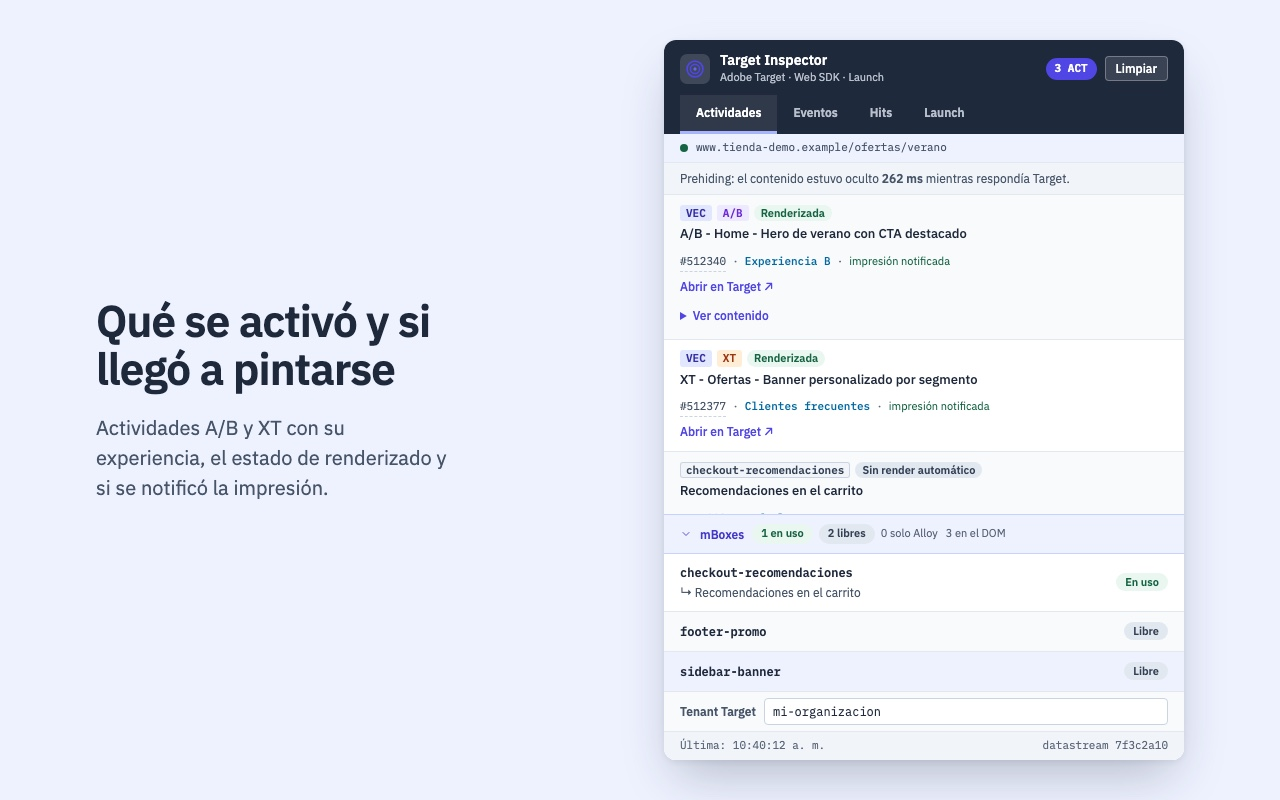
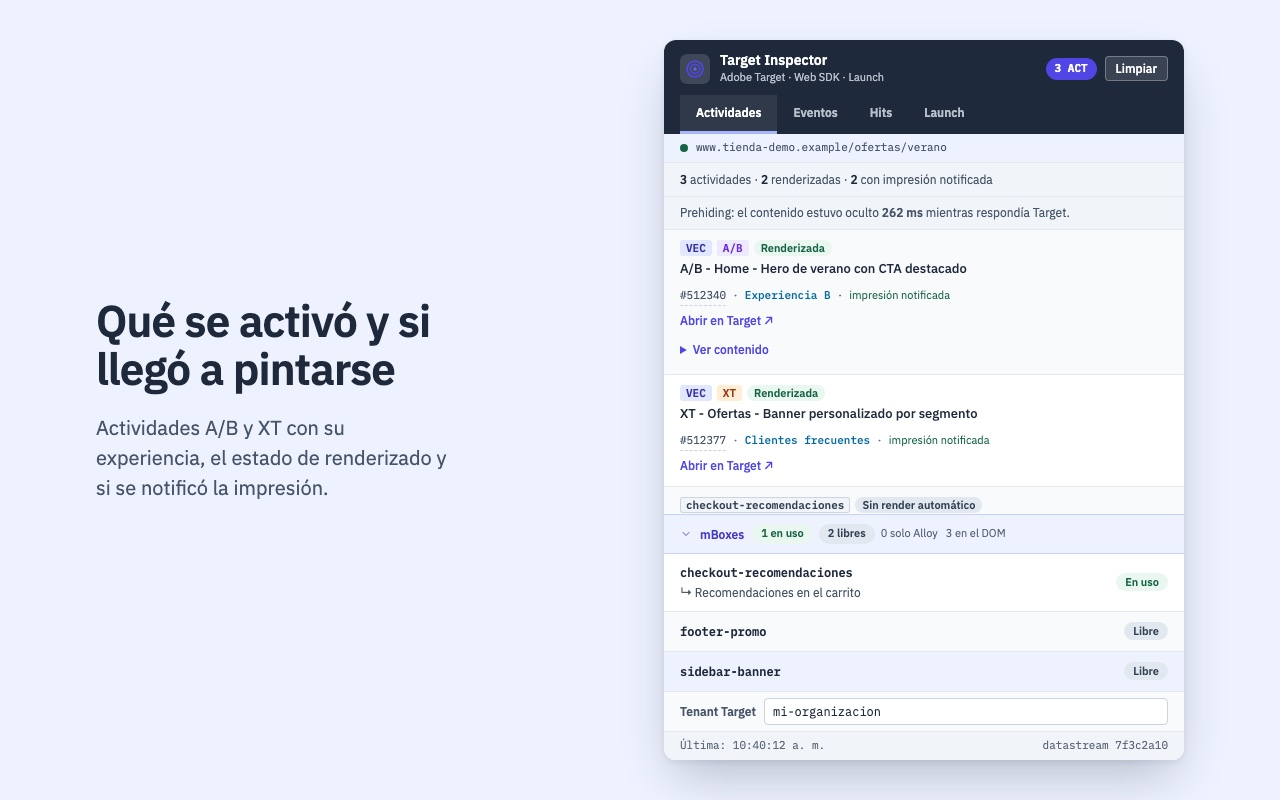
Veredicto en Actividades, filtros en Hits y grupos en Launch
- Actividades: línea de veredicto ("N actividades · N renderizadas · N con
  impresión notificada") y "+N scopes" cuando una actividad responde en
  varios scopes (orden estable, __view__ primero).
- Hits: chips "solo esto" (Todas / Decisiones / Impresión / Con error / Sin
  respuesta); "Ver Hits" desde el aviso de impresión llega ya filtrado.
- Un solo término: "impresión" (display) en Actividades y en Hits.
- Launch: encabezado fijo por grupo (Completadas / Condición no cumplida).
- Capturas de la Store regeneradas.

Changed region(s): [[0.5312, 0.2188, 0.8438, 0.6562]]

diff --git a/popup.js b/popup.js
@@ -67,7 +67,7 @@ function emptyStateHtml(icon, html, withInject = false, warn = false) {
 // en <body> con cada hit o regla nueva. Antes de repintar se anota qué
 // estaba enfocado (el data-key más cercano + el control adentro) y después
 // se vuelve a enfocar su equivalente.
-const FOCUS_ATTRS = ["id", "data-hit-toggle", "data-copy", "data-copy-event", "data-copy-code", "data-copy-hit", "data-goto", "data-idx", "data-event", "data-status", "href"];
+const FOCUS_ATTRS = ["id", "data-hit-toggle", "data-hit-filter", "data-copy", "data-copy-event", "data-copy-code", "data-copy-hit", "data-goto", "data-idx", "data-event", "data-status", "href"];
 
 function focusDescriptor(root) {
   const el = document.activeElement;
@@ -95,6 +95,13 @@ function restoreFocus(root, d) {
 function captureIsLive(data) {
   const instances = Array.isArray(data.instanceInfo) ? data.instanceInfo : data.instanceInfo ? [data.instanceInfo] : [];
   return instances.length > 0 || !!data.launchInfo || (data.requests || []).length > 0;
+}
+
+/** Franja de veredicto de Actividades (#act-summary); "" la oculta. */
+function setActSummary(html) {
+  const el = document.getElementById("act-summary");
+  el.hidden = !html;
+  el.innerHTML = html;
 }
 
 /** Estado del punto de la barra de URL: "ok" | "warn" | "error" | "idle". El texto de #page-url siempre nombra el mismo estado. */
@@ -160,7 +167,9 @@ function setBlocked(icon, html, urlText) {
   showBlockedIn("event-list");
   showBlockedIn("launch-list");
   showBlockedIn("hits-list");
+  setActSummary("");
   document.getElementById("hits-summary").hidden = true;
+  document.getElementById("hits-filters").innerHTML = "";
   document.getElementById("event-filters").innerHTML = "";
   document.getElementById("event-search-bar").hidden = true;
   document.getElementById("launch-info").hidden = true;
@@ -227,6 +236,7 @@ function showStale(tabUrl) {
     }
   })();
   document.getElementById("mbox-dock").innerHTML = "";
+  setActSummary("");
   document.getElementById("list").innerHTML = emptyStateHtml(
     "refresh",
     `Página distinta a la captura.<br>Recarga <strong>${escapeHtml(host)}</strong> para capturar.`,
@@ -587,6 +597,7 @@ function render(currentTabUrl) {
       // Con un motivo concreto no se ofrece "Capturar ahora": reinyectar no
       // arregla una cookie que falta ni una regla que no corrió.
       const reason = whyNoActivities(data);
+      setActSummary("");
       list.innerHTML = emptyStateHtml(
         reason?.warn ? "alert" : "signal",
         reason?.html ||
@@ -620,6 +631,20 @@ function render(currentTabUrl) {
     );
 
     // Muestra una sola fila por actividad (pueden llegar duplicadas en múltiples requests)
+    // Una actividad puede responder en varios scopes (bankofamerica.com: una
+    // sola en 8 mboxes). Se junta la lista entera por actividad, ordenada
+    // (__view__ primero): antes la fila mostraba el scope de la primera
+    // decisión que llegara, y cambiaba de una carga a otra.
+    const scopesByActivity = new Map();
+    allDecisions.forEach((d) => {
+      const id = d.scopeDetails?.activity?.id;
+      if (!id || !d.scope) return;
+      if (!scopesByActivity.has(id)) scopesByActivity.set(id, new Set());
+      scopesByActivity.get(id).add(d.scope);
+    });
+    const sortedScopes = (id) =>
+      [...(scopesByActivity.get(id) || [])].sort((a, b) => (a === "__view__" ? -1 : b === "__view__" ? 1 : String(a).localeCompare(String(b))));
+
     const seen = new Set();
     const unique = allDecisions.filter((d) => {
       const id = d.scopeDetails?.activity?.id;
@@ -635,6 +660,7 @@ function render(currentTabUrl) {
     // quedaba vacía con solo el aviso del tenant, sin decir nada.
     if (unique.length === 0) {
       const reason = whyNoActivities(data);
+      setActSummary("");
       list.innerHTML = emptyStateHtml(
         reason?.warn ? "alert" : "target",
         reason?.html ||
@@ -664,7 +690,9 @@ function render(currentTabUrl) {
     // controla esos strings. El recorte de nombres largos lo hace el CSS.
     const rowsHtml = unique
       .map((d, idx) => {
-        const scope = formatScope(d.scope);
+        const scopes = sortedScopes(d.scopeDetails?.activity?.id);
+        const scope = formatScope(scopes[0] ?? d.scope);
+        const moreScopes = scopes.slice(1);
         const { name, id, exp, actType } = getActivityInfo(d);
         const displayName = name || `Actividad ${id}`;
         const targetUrl = getTargetUrl(actType, id);
@@ -690,6 +718,7 @@ function render(currentTabUrl) {
         <div class="activity" data-key="act|${escapeHtml(id)}">
           <div class="activity__tags">
             <span class="scope-tag scope-tag--${scope.type}" title="${escapeHtml(scope.type === "vec" ? "Visual Experience Composer (__view__)" : scope.label)}">${escapeHtml(scope.label)}</span>
+            ${moreScopes.length ? `<span class="scope-tag scope-tag--more" title="${escapeHtml(moreScopes.map((x) => formatScope(x).label).join("\n"))}">+${moreScopes.length} ${moreScopes.length === 1 ? "scope" : "scopes"}</span>` : ""}
             ${actType ? `<span class="activity__type activity__type--${actType.toLowerCase()}" title="Tipo inferido del nombre de la actividad: el payload no lo informa">${actType === "AB" ? "A/B" : "XT"}</span>` : ""}
             ${rendered ? renderBadgeHtml(rendered) : ""}
           </div>
@@ -715,8 +744,23 @@ function render(currentTabUrl) {
       : `<div class="list__note"><span>Configura el tenant para abrir actividades en Target.</span><button class="list__note-action" id="focus-tenant">Configurar</button></div>`;
 
     const displayNote = renderedWithoutDisplay
-      ? `<div class="list__note list__note--warn"><span>${renderedWithoutDisplay} ${renderedWithoutDisplay === 1 ? "actividad renderizada no notificó" : "actividades renderizadas no notificaron"} el display en esta carga: Target cuenta la impresión recién cuando se notifica.</span><button class="list__note-action" data-goto="hits">Ver Hits</button></div>`
+      ? `<div class="list__note list__note--warn"><span>${renderedWithoutDisplay} ${renderedWithoutDisplay === 1 ? "actividad renderizada no notificó" : "actividades renderizadas no notificaron"} la impresión (display) en esta carga: Target la cuenta recién cuando se notifica.</span><button class="list__note-action" data-goto="hits" data-filter="display">Ver Hits</button></div>`
       : "";
+
+    // Veredicto de la página en una línea: lo que un QA firma. Cada tramo
+    // aparece solo si hay datos para afirmarlo (sin eventos de render o sin
+    // hits no se inventa un "0").
+    const renderedOk = unique.filter((d) => renderState.byActivity.get(String(d.scopeDetails?.activity?.id))?.status === "ok").length;
+    const notifiedCount = unique.filter((d) => displayed.has(String(d.scopeDetails?.activity?.id))).length;
+    setActSummary(
+      [
+        `<b>${unique.length}</b> ${unique.length === 1 ? "actividad" : "actividades"}`,
+        renderState.hasRendering ? `<b>${renderedOk}</b> ${renderedOk === 1 ? "renderizada" : "renderizadas"}` : null,
+        knowsDisplay ? `<b>${notifiedCount}</b> con impresión notificada` : null,
+      ]
+        .filter(Boolean)
+        .join(" · "),
+    );
 
     const scrollTop = list.scrollTop;
     const focused = focusDescriptor(list);
@@ -1743,8 +1787,15 @@ function paintLaunchRules(rules) {
   lastRenderedRules = new Map(sorted.map((r) => [r.key, r]));
   const scrollTop = list.scrollTop;
   const focused = focusDescriptor(list);
+  // Encabezado al empezar cada grupo: el orden "completadas primero" no se
+  // notaba sin algo que marcara dónde terminan unas y empiezan las otras.
+  const groupCount = { completed: sorted.filter((r) => r.status === "completed").length, failed: sorted.filter((r) => r.status === "failed").length };
+  const groupHeader = (r, idx) =>
+    idx === 0 || sorted[idx - 1].status !== r.status
+      ? `<div class="list__group">${RULE_STATUS[r.status].chip} <span class="list__group-count">${groupCount[r.status]}</span></div>`
+      : "";
   list.innerHTML = sorted
-    .map((r) => {
+    .map((r, idx) => {
       const s = RULE_STATUS[r.status];
       const name = r.ruleName || r.ruleId || "Regla sin nombre";
       // Fallidas: la condición que no se cumplió + lo que habrían ejecutado.
@@ -1766,7 +1817,7 @@ function paintLaunchRules(rules) {
         ? `${formatSinceLoad(r.firstT)} → ${formatSinceLoad(r.lastT)}`
         : formatSinceLoad(r.firstT);
       // Nombre de regla, ID y condiciones salen de la librería de Launch de la página: se escapan.
-      return `
+      return `${groupHeader(r, idx)}
       <div class="rule-row" data-key="${escapeHtml(r.key)}|row">
         <div class="rule-row__header">
           <span class="status-badge ${s.badge}" title="${escapeHtml(s.title)}">${s.label}</span>
@@ -1846,6 +1897,17 @@ const HIT_TITLES = {
   "identity/acquire": "Pedido de identidad (ECID)",
   "privacy/set-consent": "Consentimiento",
 };
+// Filtro de Hits (en memoria, como los de Eventos y Launch).
+const hitIsError = (h) => !!h.error || (Number.isFinite(h.status) && (h.status < 200 || h.status >= 300));
+const HIT_FILTERS = {
+  all: { label: "Todas", test: () => true },
+  decisions: { label: "Decisiones", test: (h) => (h.scopes || []).length > 0 || (h.eventTypes || []).includes("decisioning.propositionFetch") || h.decisions > 0 },
+  display: { label: "Impresión", test: (h) => (h.displayedActivities || []).length > 0 },
+  error: { label: "Con error", test: hitIsError },
+  pending: { label: "Sin respuesta", test: (h) => !h.responded && !h.error },
+};
+let hitFilter = "all";
+
 // Desplegables Request/Response abiertos, por "<requestId>|req" / "|res".
 const openHitBlocks = new Set();
 let lastRenderedHits = new Map();
@@ -1916,6 +1978,7 @@ function renderHits() {
 
     if (hits.length === 0) {
       summary.hidden = true;
+      document.getElementById("hits-filters").innerHTML = "";
       const live = captureIsLive(data);
       list.innerHTML = emptyStateHtml(
         "signal",
@@ -1951,16 +2014,31 @@ function renderHits() {
       `<b>${hits.length}</b> ${hits.length === 1 ? "llamada" : "llamadas"} al Edge`,
       `<b>${failed}</b> con error`,
       pending ? `<b>${pending}</b> sin respuesta` : null,
-      `<span title="Llamadas decisioning.propositionDisplay: así Target cuenta la impresión">${displays} ${displays === 1 ? "notificación" : "notificaciones"} de display</span>`,
+      `<span title="Llamadas que notifican el display (decisioning.propositionDisplay): así Target cuenta la impresión">${displays} ${displays === 1 ? "notificación" : "notificaciones"} de impresión</span>`,
     ]
       .filter(Boolean)
       .join(" · ");
+
+    // Chips "solo esto" (uno activo a la vez, no de exclusión como en
+    // Eventos): con 27 hits lo que se busca es aislar los de decisiones o los
+    // de impresión. Un tipo sin hits no muestra chip; si el activo se queda
+    // sin hits, se vuelve a "Todas".
+    const counts = Object.fromEntries(Object.keys(HIT_FILTERS).map((k) => [k, hits.filter(HIT_FILTERS[k].test).length]));
+    if (!counts[hitFilter]) hitFilter = "all";
+    const filters = document.getElementById("hits-filters");
+    const filterFocus = focusDescriptor(filters);
+    filters.innerHTML = Object.keys(HIT_FILTERS)
+      .filter((k) => k === "all" || counts[k] > 0)
+      .map((k) => `<button class="event-filter event-filter--solo${hitFilter === k ? " event-filter--active" : ""}" data-hit-filter="${k}" aria-pressed="${hitFilter === k}">${HIT_FILTERS[k].label} · ${counts[k]}</button>`)
+      .join("");
+    restoreFocus(filters, filterFocus);
+    const shown = hits.filter(HIT_FILTERS[hitFilter].test);
 
     const multiInstance = new Set(hits.map((h) => h.instance)).size > 1;
     const scrollTop = list.scrollTop;
     const focused = focusDescriptor(list);
     // Todo lo que sale del hit (endpoint, eventTypes, scopes, IDs, instancia) viene de la página: se escapa.
-    list.innerHTML = hits
+    list.innerHTML = shown
       .map((h) => {
         const title = (h.eventTypes || []).length
           ? h.eventTypes.join(", ")
@@ -1980,7 +2058,7 @@ function renderHits() {
           if (resp.length) meta.push(`respuesta: ${resp.map(escapeHtml).join(" · ")}`);
         }
         const displayed = (h.displayedActivities || []).length
-          ? `<div class="hit-row__meta hit-row__display">Notifica el display de:</div>
+          ? `<div class="hit-row__meta hit-row__display">Notifica la impresión (display) de:</div>
              <ul class="hit-row__displayed">${h.displayedActivities
                .map((id) => {
                  const name = activityNames.get(String(id));
@@ -2022,6 +2100,13 @@ document.getElementById("hits-list").addEventListener("click", (e) => {
   copyText(hitJson(value), btn.dataset.copyHit.endsWith("|req") ? "Request copiado." : "Response copiada.");
 });
 
+document.getElementById("hits-filters").addEventListener("click", (e) => {
+  const chip = e.target.closest("[data-hit-filter]");
+  if (!chip) return;
+  hitFilter = chip.dataset.hitFilter;
+  renderHits();
+});
+
 // Abrir/cerrar Request o Response: el panel se llena la primera vez que se abre.
 document.getElementById("hits-list").addEventListener("click", (e) => {
   const btn = e.target.closest("[data-hit-toggle]");
@@ -2050,6 +2135,8 @@ document.addEventListener("click", (e) => {
   const tab = tabItems.find((t) => t.dataset.tab === btn.dataset.goto);
   if (!tab) return;
   // data-search: llega a Launch con la regla nombrada ya filtrada.
+  // data-filter: "Ver Hits" desde el aviso de impresión llega ya filtrado.
+  if (btn.dataset.goto === "hits" && HIT_FILTERS[btn.dataset.filter]) hitFilter = btn.dataset.filter;
   if (btn.dataset.goto === "launch" && btn.dataset.search) {
     launchSearch = btn.dataset.search;
     document.getElementById("launch-search").value = launchSearch;

diff --git a/popup.html b/popup.html
@@ -357,6 +357,28 @@
         font-size: var(--fs-sm);
         color: var(--ink-2);
       }
+      /* Encabezado de grupo dentro de una lista (Launch: completadas / no
+         cumplidas). Queda pegado arriba mientras se recorre su grupo. */
+      .list__group {
+        position: sticky;
+        top: 0;
+        z-index: 1;
+        display: flex;
+        align-items: baseline;
+        gap: 6px;
+        padding: 6px 16px;
+        background: var(--bg-sunken);
+        border-bottom: 1px solid var(--line);
+        font-size: var(--fs-meta);
+        font-weight: 600;
+        color: var(--ink-2);
+      }
+      .list__group-count {
+        font-family: var(--font-mono);
+        font-weight: 500;
+        color: var(--ink-3);
+        font-variant-numeric: tabular-nums;
+      }
       .list__note-action {
         background: none;
         border: none;
@@ -412,6 +434,13 @@
         max-width: 100%;
         overflow: hidden;
         text-overflow: ellipsis;
+      }
+      /* "+7 scopes": la actividad respondió en más de un scope (lista en el title). */
+      .scope-tag--more {
+        flex-shrink: 0;
+        background: transparent;
+        color: var(--ink-2);
+        box-shadow: inset 0 0 0 1px var(--line-strong);
       }
       .scope-tag--vec {
         background: var(--scope-vec-bg);
@@ -1079,6 +1108,12 @@
       .event-filter:hover {
         border-color: var(--accent);
       }
+      /* Chips "solo esto" (Hits): los inactivos no van tachados — no están
+         excluidos, simplemente no son el que se está mirando. */
+      .event-filter--solo {
+        text-decoration: none;
+        color: var(--ink-2);
+      }
       .event-filter--active {
         background: var(--bg-accent);
         color: var(--accent-strong);
@@ -1570,6 +1605,7 @@
       role="tabpanel"
       aria-labelledby="tab-actividades"
     >
+      <p class="mbox-summary" id="act-summary" hidden></p>
       <div class="list" id="list"></div>
       <div class="mbox-dock" id="mbox-dock"></div>
     </section>
@@ -1597,6 +1633,7 @@
 
     <section class="panel" id="panel-hits" role="tabpanel" aria-labelledby="tab-hits">
       <p class="mbox-summary" id="hits-summary" hidden></p>
+      <div class="event-filters" id="hits-filters" role="group" aria-label="Mostrar solo un tipo de llamada"></div>
       <div class="list" id="hits-list"></div>
     </section>
 

diff --git a/CLAUDE.md b/CLAUDE.md
@@ -158,6 +158,10 @@ The summary in the section header uses the same three categories, so "en uso" + 
 
 **"mbox" vs. "decision scope" — same concept, two names.** Sites on Web SDK (Alloy) are where Adobe renamed the legacy "mbox" to "decision scope" — they're the same thing under different SDKs/eras. Many front-ends still use the `mbox` convention in the DOM (`[data-mbox]`), while Alloy requests/responds in terms of scopes. This extension straddles both worlds on purpose: `domMboxes` is what we scan from the DOM (the `mbox` side), and `decisionScopes`/`scope` in the Alloy payload is what Target actually requested/answered (the "decision scope" side). The **Alloy** category above exists specifically for scopes Target answered that have no matching `[data-mbox]` element, and `__view__` is the special scope the VEC (Visual Experience Composer) uses. Don't "unify" this terminology later — collapsing it loses the distinction the classification logic depends on.
 
+### Verdict strip and scopes (Actividades)
+
+`#act-summary` (set through `setActSummary`, emptied by every empty/stale/blocked state) is the page's verdict in one line: "N actividades · N renderizadas · N con impresión notificada". Each segment only appears when there is data to back it (no render events → no "renderizadas"; no hits → no "impresión"). An activity can answer on several scopes (bankofamerica.com: one activity on 8 mboxes): `render()` collects them per activity, sorted with `__view__` first, and the row shows the first plus a `+N scopes` tag whose `title` lists the rest — it used to show whichever decision arrived first, which changed between loads.
+
 ### Impression notified (Actividades)
 
 Target counts an impression only when Alloy notifies the display (`decisioning.propositionDisplay`, or propositions inside another event's `_experience.decisioning` — `summarizeHitBody` in content.js collects both into `displayedActivities`). When hits were captured in this load, each rendered activity says "impresión notificada" or "impresión sin notificar" (the un-notified state is marked on the row, not just counted) and the un-notified ones add up in a warn note ("N actividades renderizadas no notificaron el display…", with a "Ver Hits" button). Without hits nothing is claimed — "not notified" would be false if capture started late. bbva.pe is the real case: 3 rendered activities, `sendDisplayEvent: false`, zero notifications in the load.
@@ -166,7 +170,9 @@ Target counts an impression only when Alloy notifies the display (`decisioning.p
 
 Live re-renders replace each list's `innerHTML`, which used to drop keyboard focus to `<body>` on every incoming hit/rule: every paint that rewrites `innerHTML` — the four lists, the two filter-chip bars and the mBoxes dock — wraps itself in `focusDescriptor(root)` / `restoreFocus(root, focused)` (nearest `[data-key]` — rows carry one too: `act|<id>`, `<rule.key>|row`, `<requestId>|row` — plus the control inside, matched by `id`/`data-*`/`href` or its first class). A new paint needs the same two lines. Repeated disclosures carry an `aria-label` with their owner ("Request de decisioning.propositionFetch", "Ver código de la acción customCode de <regla>") and all `summary`/small buttons are ≥24px tall.
 
-Launch lists completed rules first, then failed ones (each group in firing order); a failed rule's actions sit behind one collapsed `<details class="rule-row__actions">` ("N acciones que no se ejecutaron") whose open state shares `openRuleCode`.
+Hits has "show only" chips (`HIT_FILTERS`: Todas / Decisiones / Impresión / Con error / Sin respuesta, one active at a time, a kind with zero hits shows no chip — unlike Eventos/Launch chips, which exclude); `data-goto="hits" data-filter="display"` (the "Ver Hits" of the impression note) arrives pre-filtered. "Impresión" is the one user-facing word for display notification in both tabs ("Notifica la impresión (display) de:").
+
+Launch lists completed rules first, then failed ones (each group in firing order, under a sticky `.list__group` header with its count); a failed rule's actions sit behind one collapsed `<details class="rule-row__actions">` ("N acciones que no se ejecutaron") whose open state shares `openRuleCode`.
 
 Any `[data-goto="<tab>"]` button activates that tab (diagnoses say "Abre Hits", the display note has "Ver Hits"). Live re-renders go through `scheduleLiveRender`: at most one paint per tab every `LIVE_RENDER_MS` (400ms), first paint of a burst immediate, last one always painted.
 
@@ -176,7 +182,7 @@ The code/settings of each rule's conditions and actions is stored under its own 
 
 ## Gotchas
 
-- `popup.js` hard-codes DOM IDs/classes it expects from `popup.html`: `#list`, `#count`, `#page-url`, `#ts`, `#clear`, `#tenant-input`, `#edge-info`, `#toast`/`#toast-text`/`#toast-action`, `#launch-info`, `#launch-list`, `#launch-filters`, `#launch-search`/`#launch-search-bar`, `#hits-list`, `#hits-summary`, `#mbox-dock`, `.tabs__item[data-tab]` (real `<button role="tab">`s — keyboard nav lives in `activateTab`), `.panel`, `.url-bar__indicator` (state via `--ok/--warn/--error` modifiers, set by `setIndicator`, never inline styles). Renaming in the HTML silently breaks rendering (e.g. `#tenant-input` is read by `setupTenantInput`).
+- `popup.js` hard-codes DOM IDs/classes it expects from `popup.html`: `#list`, `#count`, `#page-url`, `#ts`, `#clear`, `#tenant-input`, `#edge-info`, `#toast`/`#toast-text`/`#toast-action`, `#launch-info`, `#launch-list`, `#launch-filters`, `#launch-search`/`#launch-search-bar`, `#hits-list`, `#hits-summary`, `#hits-filters`, `#act-summary`, `#mbox-dock`, `.tabs__item[data-tab]` (real `<button role="tab">`s — keyboard nav lives in `activateTab`), `.panel`, `.url-bar__indicator` (state via `--ok/--warn/--error` modifiers, set by `setIndicator`, never inline styles). Renaming in the HTML silently breaks rendering (e.g. `#tenant-input` is read by `setupTenantInput`).
 - Every captured value interpolated into `innerHTML` goes through `escapeHtml` (which also escapes quotes, since values land in `title`/`href`/`data-*` attributes). The extension runs on arbitrary sites and the page controls activity names, scopes, mbox names and event payloads — MV3's CSP blocks inline scripts but not injected links/iframes/forms. Don't add a template interpolation of payload data without it.
 - Colors, type sizes and fonts are tokens on `:root` in `popup.html` (semantic names: `--ink-3`, `--type-ab`, `--danger`…). Every text/background pair was measured at ≥4.5:1, and the type floor is 11px — add new UI through the tokens, not raw hex or smaller sizes.
 - Fonts are bundled (`assets/fonts/`, IBM Plex latin subset, OFL license alongside) and declared with `@font-face` in `popup.html` — the window makes no external requests. Don't reintroduce the Google Fonts `<link>`.

diff --git a/README.md b/README.md
@@ -10,9 +10,9 @@ Cuando Target responde a una llamada de personalización, o la página hace `pus
 
 | Pestaña | Qué muestra |
 | --- | --- |
-| **Actividades** | Lista de actividades A/B y XT que Target activó, con nombre, ID, experiencia asignada y link directo a la UI de Adobe Target (el link aparece solo si configuraste el tenant en el footer — ver abajo). Cada actividad es **expandible**: si la decisión trae una offer `dom-action`, muestra `type`/`format`/`selector`/`prehidingSelector`/tamaño, un preview truncado del `content` (HTML/JS que la offer inserta), y un botón **Copiar completo** para pegar el contenido íntegro en un editor. Un click en el `#ID` de la actividad lo copia. Debajo, la franja **mBoxes**, fija debajo de la lista, los resume y al abrirla los clasifica en *En uso* (Target respondió), *Libres* (en el DOM sin actividad) y *Solo Alloy* (respondidos sin elemento `[data-mbox]`), con todas las actividades de cada scope; en páginas 100% VEC la franja avisa que no hay mboxes con nombre. Si se capturaron hits, cada actividad dice si su **impresión fue notificada** a Target, y un aviso arriba cuenta las renderizadas que no la notificaron. Cada actividad muestra además su **estado de renderizado** (de los hooks `onContentRendering` de Alloy): *Renderizada*, *Falló el render*, *Sin confirmar* (Alloy empezó a aplicarla pero no confirmó) o *Sin render automático* (la aplica la página o es una oferta JSON). Si Alloy usó prehiding, una línea arriba dice cuántos ms estuvo oculto el contenido, o avisa si sigue oculto |
+| **Actividades** | Lista de actividades A/B y XT que Target activó, con nombre, ID, experiencia asignada y link directo a la UI de Adobe Target (el link aparece solo si configuraste el tenant en el footer — ver abajo). Cada actividad es **expandible**: si la decisión trae una offer `dom-action`, muestra `type`/`format`/`selector`/`prehidingSelector`/tamaño, un preview truncado del `content` (HTML/JS que la offer inserta), y un botón **Copiar completo** para pegar el contenido íntegro en un editor. Un click en el `#ID` de la actividad lo copia. Debajo, la franja **mBoxes**, fija debajo de la lista, los resume y al abrirla los clasifica en *En uso* (Target respondió), *Libres* (en el DOM sin actividad) y *Solo Alloy* (respondidos sin elemento `[data-mbox]`), con todas las actividades de cada scope; en páginas 100% VEC la franja avisa que no hay mboxes con nombre. Arriba, una línea de veredicto resume la página ("5 actividades · 3 renderizadas · 0 con impresión notificada"). Si se capturaron hits, cada actividad dice si su **impresión fue notificada** a Target o quedó **sin notificar**, y un aviso cuenta las renderizadas que no la notificaron. Una actividad que respondió en varios scopes muestra el primero y "+N scopes". Cada actividad muestra además su **estado de renderizado** (de los hooks `onContentRendering` de Alloy): *Renderizada*, *Falló el render*, *Sin confirmar* (Alloy empezó a aplicarla pero no confirmó) o *Sin render automático* (la aplica la página o es una oferta JSON). Si Alloy usó prehiding, una línea arriba dice cuántos ms estuvo oculto el contenido, o avisa si sigue oculto |
 | **Eventos** | Pushes crudos a `window.digitalData` y `window.adobeDataLayer` (la capa de datos de Adobe, ACDL) capturados en vivo — la capa de tracking *antes* de que Adobe Launch los procese. A diferencia de Actividades/mBoxes, **persiste a través de la navegación**: cada evento queda etiquetado con la página donde disparó, agrupados en secciones colapsables por página para poder recorrer el sitio y revisar después dónde disparó cada cosa. Dentro de cada página, eventos consecutivos del mismo tipo (p. ej. varios `trackScroll` seguidos) se colapsan en una fila `[nombre · N]` expandible; chips arriba de la lista filtran por nombre de evento en todo el recorrido, y un buscador filtra por texto (nombre, cualquier valor del payload o la página). Cada payload tiene **Copiar payload** |
-| **Hits** | Cada llamada de Alloy al **Edge** de Adobe en esta carga (`interact`, `collect`, `identity/acquire`, `privacy/set-consent`), en orden y con su respuesta enlazada por `requestId`: código de estado (o *Falló* / *Sin respuesta*), `eventType` enviado, scopes pedidos, qué trajo la respuesta (N decisiones, `identity:result`, `activation:pull`…) y, si es un `decisioning.propositionDisplay`, **qué actividades notificó** (así cuenta Target la impresión). Desplegables **Request** y **Response** con el JSON completo y botón para copiar. Sale de los hooks de Alloy, no del tráfico de red: no pide permisos nuevos |
+| **Hits** | Cada llamada de Alloy al **Edge** de Adobe en esta carga (`interact`, `collect`, `identity/acquire`, `privacy/set-consent`), en orden y con su respuesta enlazada por `requestId`: código de estado (o *Falló* / *Sin respuesta*), `eventType` enviado, scopes pedidos, qué trajo la respuesta (N decisiones, `identity:result`, `activation:pull`…) y, si es un `decisioning.propositionDisplay`, **qué actividades notificó** (así cuenta Target la impresión). Chips para ver solo las de decisiones, las de impresión o las que fallaron. **Request** y **Response** con el JSON completo y botón para copiar (con la ventana ancha, el payload se abre al costado). Sale de los hooks de Alloy, no del tráfico de red: no pide permisos nuevos |
 | **Launch** | La propiedad de **Adobe Launch (Tags / Data Collection)** que cargó la página: nombre, **entorno** (`production`/`staging`/`development` — fuera de production avisa que no es lo que ven los usuarios), fecha de build y versión de Turbine. Debajo, las reglas de esa carga: **Completadas** y con **Condición no cumplida**, agregadas por regla (`×N` si se disparó varias veces) y en el orden en que se dispararon. Para las que no cumplieron muestra qué condición falló, el dato que la explica (p. ej. `core · cookie politica_privacidad_personalizacion` — la regla de Target que no corre hasta aceptar cookies) y un desplegable **Ver código** (customCode) o **Ver configuración** (el resto, en JSON) con botón para copiarlo. Todas muestran sus **acciones** — en las no cumplidas, marcadas como *no se ejecutaron*, para ver qué habría hecho la regla (`→ core · customCode`, `→ adobe-alloy · sendEvent`…) con el mismo desplegable; un customCode externo que Launch todavía no descargó muestra el link al archivo. Chips por resultado y buscador por nombre o condición |
 
 También hay un footer con el `orgId`/`edgeConfigId` de la instancia de Alloy activa en la página, para confirmar que apunta al datastream correcto, y un campo para configurar el **tenant de Adobe Target**.
